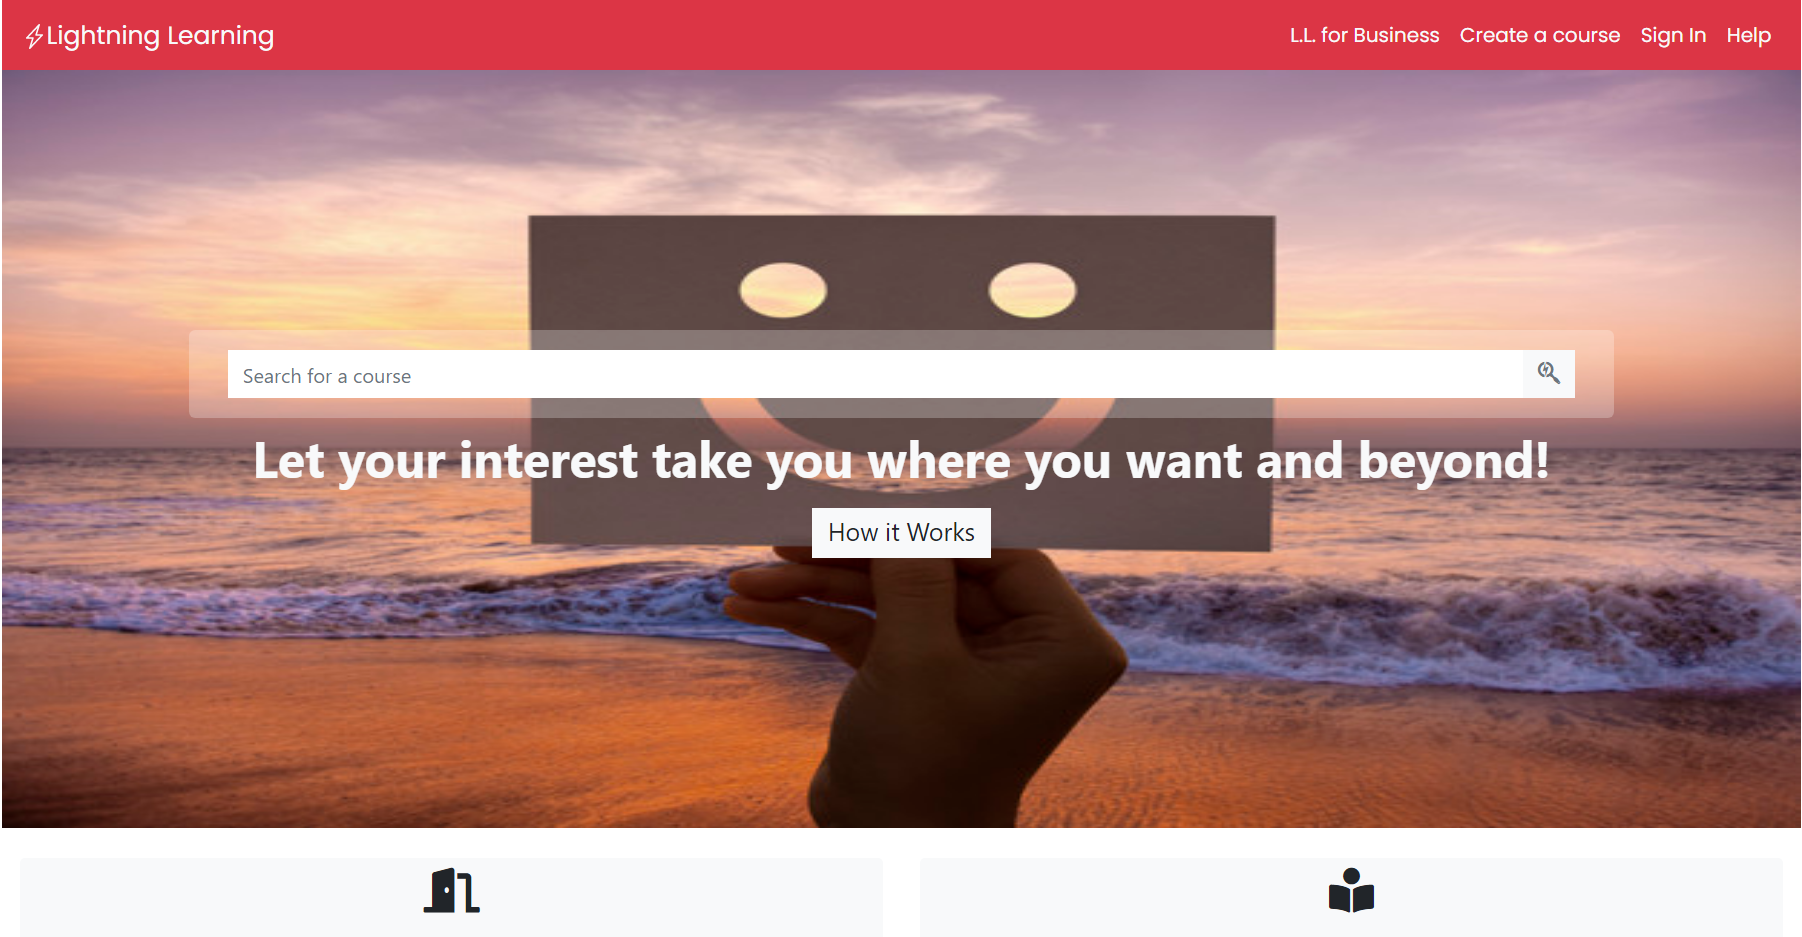
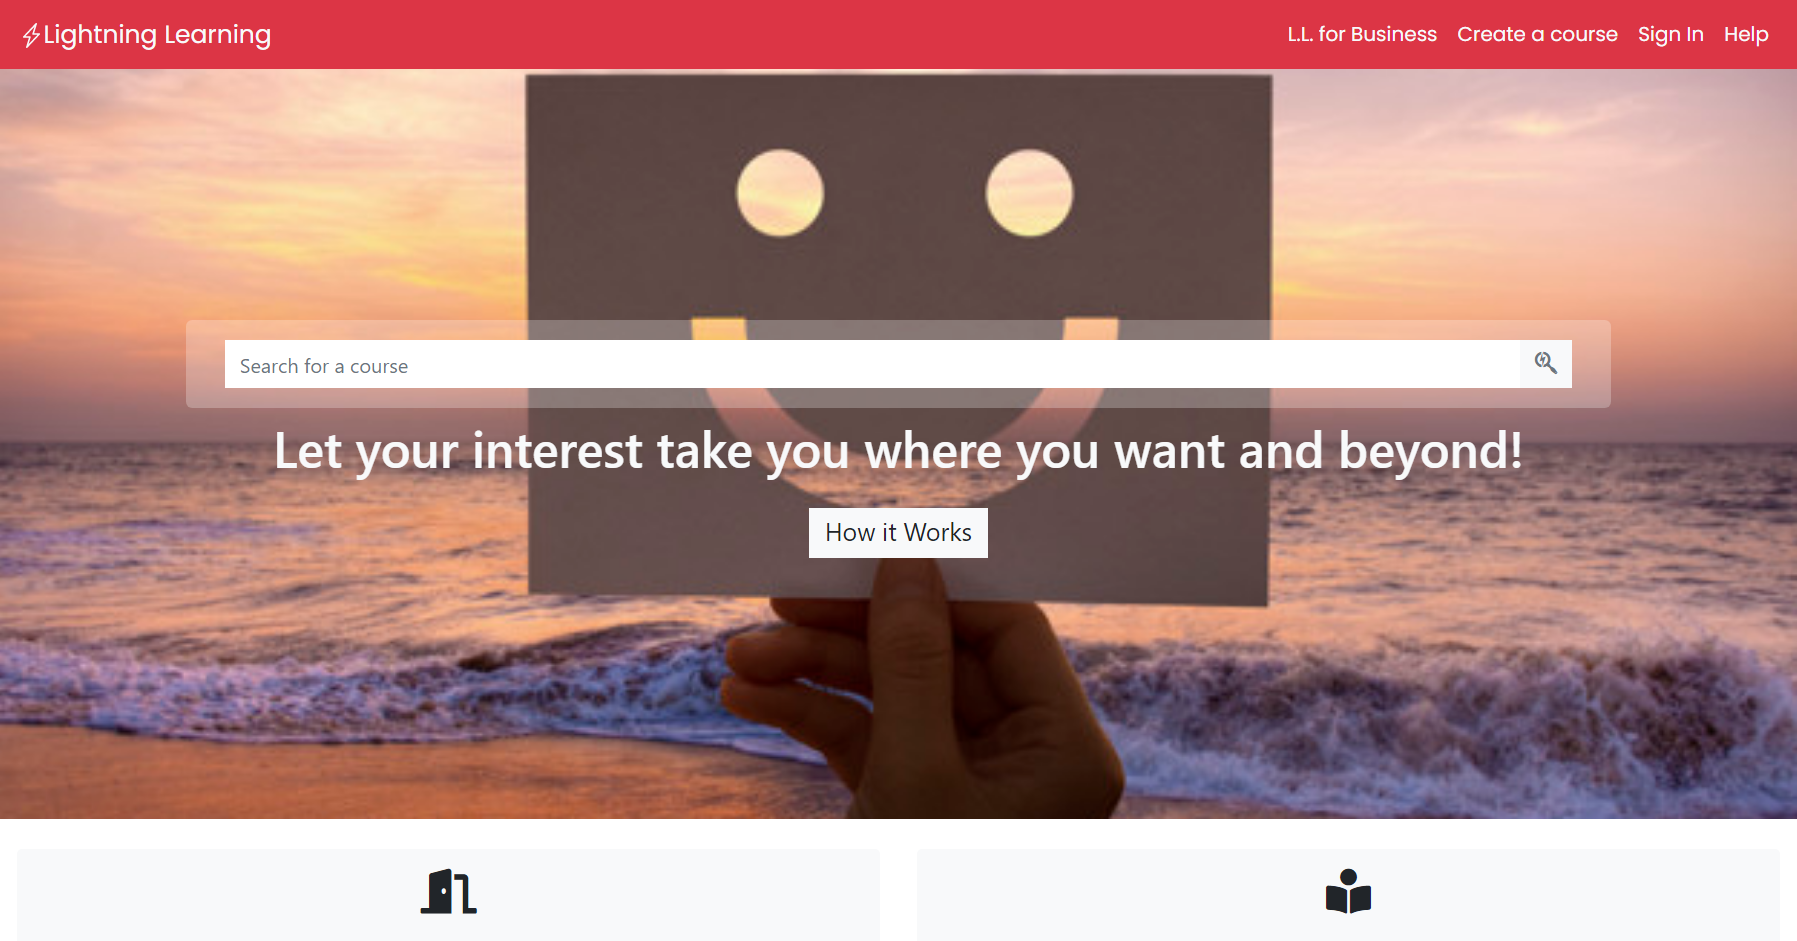
Add screenshot

diff --git a/course.html b/course.html
@@ -355,10 +355,10 @@
                     here:
                   </p>
                 </div>
-                <div class="suscribe d-flex container sub-input p-2 h-auto">
+                <div class="suscribe d-flex container sub-input p-2 w-auto">
                   <input
                     type="email"
-                    class="form-control rounded-0 border-0 py-0"
+                    class="form-control rounded-0 border-0 py-0 h-auto"
                     placeholder="Email address"
                   />
                   <a

diff --git a/index.html b/index.html
@@ -279,7 +279,7 @@
                     here:
                   </p>
                 </div>
-                <div class="suscribe d-flex container sub-input p-2">
+                <div class="suscribe d-flex container sub-input p-2 w-auto">
                   <input
                     type="email"
                     class="form-control rounded-0 border-0 py-0 h-auto"

diff --git a/results.html b/results.html
@@ -500,7 +500,7 @@
                     here:
                   </p>
                 </div>
-                <div class="suscribe d-flex container sub-input p-2">
+                <div class="suscribe d-flex container sub-input p-2 w-auto">
                   <input
                     type="email"
                     class="form-control rounded-0 border-0 py-0 h-auto"

diff --git a/src/css/style.css b/src/css/style.css
@@ -11,8 +11,6 @@ a.nav-link.active {
 .search-section {
   background-image: url("../images/main.jpg");
   background-repeat: no-repeat;
-
-  /* background-size: 100% 100%; */
   background-size: cover;
   background-position: center;
 }

diff --git a/src/css/media.css b/src/css/media.css
@@ -1,6 +1,13 @@
 /* Media Queries */
 
 /* Index Page */
+@media screen and (min-width: 992px) {
+  .search-section {
+    min-height: 600px;
+  }
+
+}
+
 
 /* Media Search Page */
 
